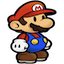
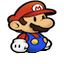
animation for mario working

Changed region(s): [[0.2188, 0.7812, 0.7812, 1.0]]

diff --git a/GameScene.m b/GameScene.m
@@ -12,14 +12,20 @@
 
 CCTexture2D* tex1;
 CCTexture2D* tex2;
+CCTexture2D* tex3;
 GoombaBasic* goomba;
 CCParticleRain* snow;
 CCTMXObjectGroup* objectLayer;
 CCTMXTiledMap *map;
 bool isColliding;
 CCParticleMeteor *breath;
+CCSprite* marioFeet;
+CCSprite* marioFullImage;
+CCRepeatForever *repeat;
 
 @implementation GameScene
+@synthesize anim;
+@synthesize player;
 
 +(id) scene {
     CCScene *scene = [CCScene node];
@@ -48,6 +54,7 @@ CCParticleMeteor *breath;
         CCLOG(@"%@: %@", NSStringFromSelector(_cmd), self);
         [[SimpleAudioEngine sharedEngine] playBackgroundMusic:@"ghosts3.mp3" loop:YES]; 
         self.isAccelerometerEnabled = YES;
+        tex3 = [[CCTextureCache sharedTextureCache] addImage:@"mariok.png"];
         tex1 = [[CCTextureCache sharedTextureCache] addImage:@"mario.png"];
         tex2 = [[CCTextureCache sharedTextureCache] addImage:@"mario3.png"];
         player = [CCSprite spriteWithTexture:tex1];
@@ -82,9 +89,36 @@ CCParticleMeteor *breath;
         snow.duration = 100000;
         [self addChild:snow z:90];
         
+        
+        [[CCSpriteFrameCache sharedSpriteFrameCache] addSpriteFramesWithFile:@"runningfeet.plist"];
+        CCSpriteBatchNode *spriteSheet = [CCSpriteBatchNode batchNodeWithFile:@"runningfeet.png"];
+        [self addChild:spriteSheet z:200];
+        
+        
+        NSMutableArray *animFrames = [NSMutableArray array];
+        for (int i = 1; i <= 5; i++) {
+            NSString *file = [NSString stringWithFormat:@"foot%d.png", i];
+            CCSpriteFrame *frame = [[CCSpriteFrameCache sharedSpriteFrameCache] spriteFrameByName:file];
+            [animFrames addObject:frame];
+        }
+        
+        marioFeet = [CCSprite spriteWithSpriteFrameName:@"foot1.png"];
+        marioFeet.position = ccp(300.0f, screenSize.height / 6 + 5);
+        [spriteSheet addChild:marioFeet z:50];
+        anim = [CCAnimation animationWithSpriteFrames:animFrames delay:0.05f];
+        repeat = [CCRepeatForever actionWithAction:[CCAnimate actionWithAnimation:anim]];
+        [marioFeet runAction:repeat];
+        marioFeet.flipX = YES;
+        marioFeet.visible = NO;
+        
+        marioFullImage = [CCSprite spriteWithTexture:tex3];
+        marioFullImage.position = CGPointMake(screenSize.width / 2, screenSize.height/ 6);
+        [self addChild:marioFullImage z:11];
+
+        
         breath = [CCParticleMeteor node];
         breath.texture = [[CCTextureCache sharedTextureCache] addImage:@"particle1.png"];
-        [player addChild:breath];
+        [player addChild:breath z:12];
         breath.totalParticles = 0;
         breath.position = ccp(player.position.x - 200, player.position.y);
 
@@ -108,7 +142,7 @@ CCParticleMeteor *breath;
     float imageWidthHalved = [player texture].contentSize.width * 0.5f;
     float leftBorderLimit = imageWidthHalved;
     float rightBorderLimit = gameWorldSize.size.width - imageWidthHalved;
-    
+
     if (pos.x < leftBorderLimit)
     {
         newPosition = ccp(leftBorderLimit, player.position.y);
@@ -117,7 +151,9 @@ CCParticleMeteor *breath;
         newPosition = ccp(rightBorderLimit, player.position.y);
         playerVelocity = CGPointZero; }
     else {
-
+        marioFullImage.position = CGPointMake(player.position.x, player.position.y);
+        marioFeet.position = ccp(player.position.x + scaledVelocity.x, player.position.y - player.boundingBox.size.height / 2.4);
+        [repeat step:0.02];
         snow.position = CGPointMake(player.position.x, screenSize.height);
         [self spritePosition];
         [self checkForCollidableBlock];
@@ -248,7 +284,7 @@ CCParticleMeteor *breath;
         
         if (CGRectContainsPoint([player boundingBox], CGPointMake(goomba.position.x + 20, goomba.position.y))) {
             [goomba stopAllActions];
-            id blinker = [CCBlink actionWithDuration: 2.0 blinks: 20];
+            id blinker = [CCBlink actionWithDuration: 1.0 blinks: 10];
             id callback = [CCCallFuncN actionWithTarget:self selector:@selector(removeGoomba:)];
             id sequence = [CCSequence actions:blinker, callback, nil];
             [[SimpleAudioEngine sharedEngine] playEffect:@"stomp.mp3"];
@@ -260,7 +296,6 @@ CCParticleMeteor *breath;
             id returnMario = [CCCallFuncN actionWithTarget:self selector:@selector(returnM:)];
             id sequence4 = [CCSequence actions:jumpOff, returnMario, nil];
             [player runAction:sequence4];
-            //goomba should actually be flipped along x axis and animated to drop off screen/
             
             skipMarioHitByGoombaCheck = true;
             break;
@@ -273,12 +308,12 @@ CCParticleMeteor *breath;
     }
 }
 
--(void)returnM:(CCSprite*)sender {
+-(void)returnM:(id)sender {
     [sender stopAllActions];
 }
 
 -(void)removeGoomba:(id)sender {
-    [self removeChild:sender cleanup:false];
+    [sender removeFromParentAndCleanup:true];
 }
 
 -(void)jumpMario {
@@ -293,19 +328,26 @@ CCParticleMeteor *breath;
     
     [[SimpleAudioEngine sharedEngine] playEffect:@"jumping.mp3"];
     CCSequence* jumpSequence = [CCSequence actions:jump1, nil];
+    marioFullImage.visible = NO;
+    marioFeet.visible = NO;
     [player runAction:jumpSequence];
     player.texture = tex2;
 }
 
 -(void)marioHitFlash {
-    CCFiniteTimeAction* blinker = [CCBlink actionWithDuration: 1 blinks: 10];
+    CCFiniteTimeAction* blinker = [CCBlink actionWithDuration: 2 blinks: 10];
     id showMario = [CCShow action];
     id sequence = [CCSequence actions:blinker, showMario, nil];
+    player.texture = tex3;
     [player runAction: sequence];
+    marioFeet.visible = YES;
+    marioFullImage.visible = NO;
 }
 
 -(void)checkMarioJumpFinished {
     if (![player numberOfRunningActions]) {
+        marioFeet.visible = YES;
+        marioFullImage.visible = YES;
         player.texture = tex1;
     }
 }
@@ -313,13 +355,24 @@ CCParticleMeteor *breath;
 -(void)spritePosition {
     if (leftJoystick.degrees > 90 && leftJoystick.degrees < 270) {
         player.flipX = YES;
+        marioFullImage.flipX = YES;
+        marioFullImage.opacity = 0;
+        marioFeet.opacity = 255;
+        marioFeet.flipX = NO;
         breath.totalParticles = 0;
     }
     else if (leftJoystick.degrees < 90 && leftJoystick.degrees > 0) {
         player.flipX = NO;
+        marioFullImage.flipX = NO;
+        marioFullImage.opacity = 0;
+        marioFeet.opacity = 255;
+        marioFeet.flipX = YES;
         breath.totalParticles = 0;
     }
     else {
+        [repeat step:0.4];
+        marioFullImage.opacity = 255;
+        marioFeet.opacity = 0;
         isColliding = NO;
         breath.totalParticles = (arc4random() % (3));
         breath.emissionRate = 12;

diff --git a/MarioLand/MainMenu.m b/MarioLand/MainMenu.m
@@ -29,8 +29,6 @@
         [self addChild:menubg];
         menubg.position = ccp(-130,-40);
         menubg.anchorPoint = ccp(0,0);
-        menubg.blendFunc = (ccBlendFunc){GL_OES_element_index_uint, GL_LUMINANCE_ALPHA};
-
         CGSize screenSize = [CCDirector sharedDirector].winSize;
         CCLayer *pageOne = [[CCLayer alloc] init];
         

diff --git a/GameScene.h b/GameScene.h
@@ -28,6 +28,9 @@
     int numGoombasMoved;
 }
 
+@property (nonatomic, assign) CCAnimation *anim;
+@property (nonatomic, strong) CCSprite *player;
+
 +(id)scene;
 
 - (id)initWithHUD:(HUDLayer *)hud;
